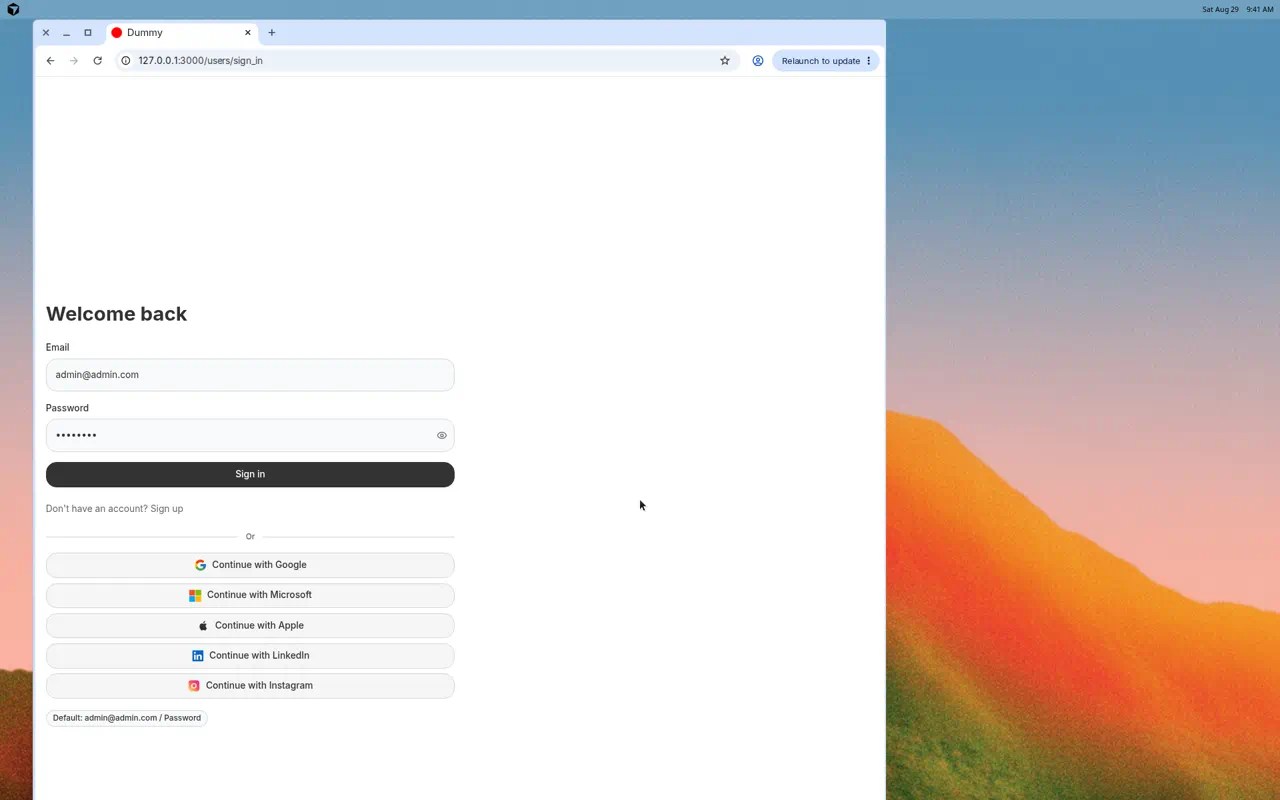
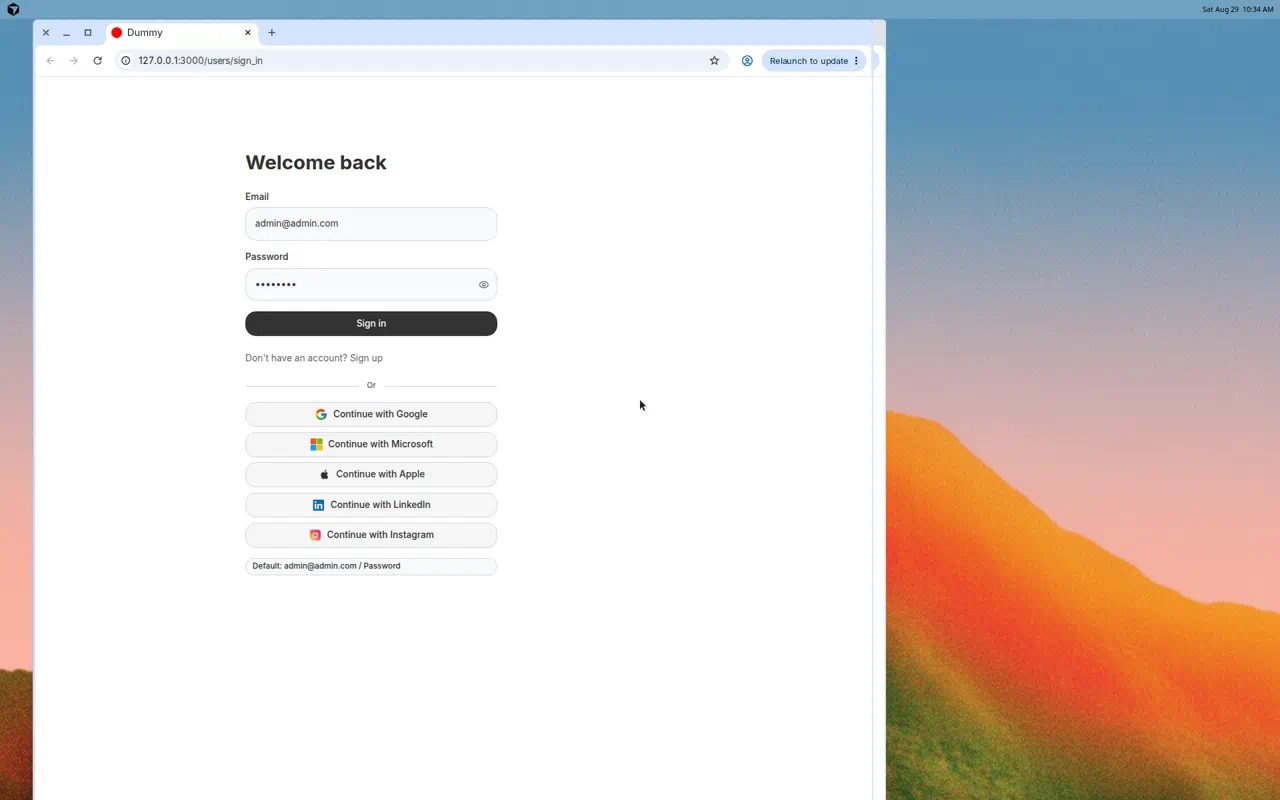
Compose login/signup with Flatpack Grid justify center max sm
Pin Flatpack branch cursor/grid-justify-max-8d62 (0.1.144) so Grid
justify:/max: work. Login and signup use cols:1 justify:center max:sm
only — drop cols:2, fixed inset-0, and layout mx-auto hacks. Recapture
review stills.

diff --git a/test/gem_template_test.rb b/test/gem_template_test.rb
@@ -140,20 +140,21 @@ class RecordingStudioUserTest < Minitest::Test
     assert_includes gemspec, '"recording_studio_attachable", "~> 0.5.0"'
   end
 
-  def test_gemfiles_pin_flatpack_divider_release
+  def test_gemfiles_pin_flatpack_grid_justify_max_branch
     [File.expand_path("../Gemfile", __dir__), File.expand_path("dummy/Gemfile", __dir__)].each do |gemfile|
-      assert_includes File.read(gemfile), 'gem "flat_pack", github: "bowerbird-app/flatpack", tag: "v0.1.142"'
+      assert_includes File.read(gemfile),
+                      'gem "flat_pack", github: "bowerbird-app/flatpack", branch: "cursor/grid-justify-max-8d62"'
     end
 
     [File.expand_path("../Gemfile.lock", __dir__), File.expand_path("dummy/Gemfile.lock", __dir__)].each do |lockfile|
       lock = File.read(lockfile)
-      assert_includes lock, "tag: v0.1.142"
-      assert_includes lock, "flat_pack (0.1.142)"
-      assert_includes lock, "942e7822245889242bc054990f74794c7f504438"
+      assert_includes lock, "branch: cursor/grid-justify-max-8d62"
+      assert_includes lock, "flat_pack (0.1.144)"
+      assert_includes lock, "8ae25818091f30db76b4b76fa11016b0d4a830e1"
     end
 
     gemspec = File.read(File.expand_path("../recording_studio_user.gemspec", __dir__))
-    assert_includes gemspec, '"flat_pack", "~> 0.1.142"'
+    assert_includes gemspec, '"flat_pack", "~> 0.1.144"'
   end
 
   def test_dummy_default_layout_head_sets_rounded_on_html

diff --git a/test/dummy/test/integration/login_page_test.rb b/test/dummy/test/integration/login_page_test.rb
@@ -14,7 +14,10 @@ class LoginPageTest < ActionDispatch::IntegrationTest
     assert_select "input[name='user[remember_me]']", count: 0
     assert_select "button[type='submit']", text: "Sign in"
     refute_includes response.body, "Remember me"
-    refute_includes response.body, "FlatPack::Card"
+    refute_includes response.body, "fixed inset-0"
+    refute_includes response.body, "place-content-center"
+    refute_includes response.body, "mx-auto my-28"
+    assert_includes response.body, "max-w-sm"
     assert_includes response.body, "Don't have an account?"
     assert_includes response.body, "Continue with Google"
     assert_match(/\bOr\b/, response.body)

diff --git a/test/dummy/README.md b/test/dummy/README.md
@@ -6,8 +6,8 @@ This Rails application demonstrates RecordingStudioUser in a host application.
 - This gem owns the shared **People** root and **Profile** snapshots (`user_id` on Profile).
 - One profile image is an Attachable child of the Profile recording. Dummy mounts Attachable and Active Storage.
 - Workspace remains the host-owned bucket. Access-controlled, read-only reporting on sitewide users is still mounted.
-- Signed-in pages use Recording Studio's default layout (`RecordingStudio::UsesDefaultLayout`). Devise keeps `layouts/application` with `html data-theme="rounded"`. Dummy does not own `recording_studio/default_layout`. A `recording_studio/_default_layout_head` hook sets the same theme on signed-in pages so Flatpack primary tokens resolve on `:root`. Login and sign up share the Flatpack auth stack with Grid `cols: 2` width cap (no Card): `login_title` (default Welcome back) / Sign up → fields → primary button → cross-link → Divider `Or` → full-width Continue-with buttons (provider logos via `icon:`). No Remember me on login. Login seed hint sits under the form. OmniAuth test mode mocks Google, Microsoft, Apple, LinkedIn, and Instagram. They are not a Users product registration flow.
-- Profile show/edit are PageNav chrome only. The right slot stays empty. There is no Access control, sidebar Sign out, or Root Switchable on those screens. Show puts Edit and Sign-in methods in the page title and one elevated identity Card (no `page_nav_back_*`; Flatpack PageNav may still paint history.back). A two-column Grid wraps the Card only (desktop width cap). Inside the card, Avatar sits above unlabeled name, email, and time zone in one column. Empty photos use profile-name initials (never the word “Avatar”). Edit hosts a `profile-photo` Turbo frame with Flatpack Avatar (`attachment_preview_url`, `size: :"2xl"`, name/alt from the profile) plus Attachable `render_attachment_file_button` for Add/Change — photo + name + timezone + Update/Cancel only. Connect / Disconnect live on `/recording_studio_users/profile/sign-in-methods` as matching Card + List rows with the configured provider logos. Dummy pins Flatpack `v0.1.142` (Divider + `:"2xl"` Avatar). An `mb-8` wrapper around the frame separates the photo row from First name. Edit puts the form in one cell of a two-column Flatpack Grid (the other cell stays empty) so fields do not stretch full-bleed on a wide screen. Each field is still its own full-width row. Update profile and Cancel are separate Flatpack buttons, not a ButtonGroup. Edit subtitle is the profile name (not `large_subtitle`).
+- Signed-in pages use Recording Studio's default layout (`RecordingStudio::UsesDefaultLayout`). Devise keeps `layouts/application` with `html data-theme="rounded"`. Dummy does not own `recording_studio/default_layout`. A `recording_studio/_default_layout_head` hook sets the same theme on signed-in pages so Flatpack primary tokens resolve on `:root`. Login and sign up compose one Flatpack Grid (`cols: 1`, `justify: :center`, `max: :sm`): `login_title` (default Welcome back) / Sign up → fields → primary button → cross-link → Divider `Or` → full-width Continue-with buttons (provider logos via `icon:`). No Card, no Remember me, no Users `fixed inset-0` / `mx-auto` centering. Login seed hint sits under the form. OmniAuth test mode mocks Google, Microsoft, Apple, LinkedIn, and Instagram. They are not a Users product registration flow.
+- Profile show/edit are PageNav chrome only. The right slot stays empty. There is no Access control, sidebar Sign out, or Root Switchable on those screens. Show puts Edit and Sign-in methods in the page title and one elevated identity Card (no `page_nav_back_*`; Flatpack PageNav may still paint history.back). A two-column Grid wraps the Card only (desktop width cap). Inside the card, Avatar sits above unlabeled name, email, and time zone in one column. Empty photos use profile-name initials (never the word “Avatar”). Edit hosts a `profile-photo` Turbo frame with Flatpack Avatar (`attachment_preview_url`, `size: :"2xl"`, name/alt from the profile) plus Attachable `render_attachment_file_button` for Add/Change — photo + name + timezone + Update/Cancel only. Connect / Disconnect live on `/recording_studio_users/profile/sign-in-methods` as matching Card + List rows with the configured provider logos. Dummy pins Flatpack branch `cursor/grid-justify-max-8d62` (`0.1.144`) for login/signup Grid `justify` / `max`. An `mb-8` wrapper around the frame separates the photo row from First name. Edit puts the form in one cell of a two-column Flatpack Grid (the other cell stays empty) so fields do not stretch full-bleed on a wide screen. Each field is still its own full-width row. Update profile and Cancel are separate Flatpack buttons, not a ButtonGroup. Edit subtitle is the profile name (not `large_subtitle`).
 - Review screenshots for Google OAuth live under `docs/review/google-oauth/`.
 - Dummy still overrides Attachable's leftover attachment show so that gem's in-view PageNav is not stacked on top of core's. Profile screens do not link there.
 
@@ -28,7 +28,7 @@ Run these commands from the dummy app directory. Sign in through Devise at `/use
 ## RecordingStudioUser Routes
 
 - `/recording_studio_users/profile`: the signed-in user's profile. Accessible must grant them a role on that Profile recording. Flash notices come from the default layout, not the show template. The photo is the single Attachable child. Show is an elevated identity Card plus **Edit** and **Sign-in methods** in the title (no Connect/Disconnect on show). Review stills for OAuth live under `docs/review/google-oauth/`.
-- `/recording_studio_users/profile/edit`: profile editing route. Writes go through `record_profile!`. The photo row is a host `profile-photo` Turbo frame: Avatar via `attachment_preview_url(..., variant: :square_med)` plus Attachable `render_attachment_file_button` (Add/Change posts stay on this page). Dummy pins Attachable tag `v0.5.0` and Flatpack `v0.1.142`. Empty photos use profile-name initials (never the word “Avatar”).
+- `/recording_studio_users/profile/edit`: profile editing route. Writes go through `record_profile!`. The photo row is a host `profile-photo` Turbo frame: Avatar via `attachment_preview_url(..., variant: :square_med)` plus Attachable `render_attachment_file_button` (Add/Change posts stay on this page). Dummy pins Attachable tag `v0.5.0` and Flatpack branch `cursor/grid-justify-max-8d62`. Empty photos use profile-name initials (never the word “Avatar”).
 - `/recording_studio_users/profile/sign-in-methods`: owner-only Sign-in methods (same Accessible grant as Edit). Flatpack elevated Card + List: linked providers show logo, name, email, Disconnect; when Google is configured but not linked, the same row shows logo, Google, and Connect (secondary, sm). Core PageNav back to My Profile.
 - `/recording_studio_attachable/attachments/:id`: leftover Attachable record screen if opened directly. Profile does not link here.
 - `/recording_studio_users/admin`: authorizes the actor against the Admin root, then opens the shared read-only users report.

diff --git a/README.md b/README.md
@@ -17,7 +17,7 @@ Add the engine to the host application's Gemfile:
 gem "recording_studio_user"
 ```
 
-`recording_studio` (~> 4.2), `recording_studio_accessible` (~> 0.7), `recording_studio_attachable` (~> 0.5.0), `recording_studio_admin`, `flat_pack` (~> 0.1.142), `devise`, `omniauth`, `omniauth-google-oauth2`, `omniauth-microsoft_graph`, `omniauth-apple`, `omniauth-linkedin-openid`, `omniauth-instagram-api`, and `omniauth-rails_csrf_protection` are runtime dependencies. This gem enables Accessible and Attachable on Profile only. It does not enable either on People.
+`recording_studio` (~> 4.2), `recording_studio_accessible` (~> 0.7), `recording_studio_attachable` (~> 0.5.0), `recording_studio_admin`, `flat_pack` (~> 0.1.144), `devise`, `omniauth`, `omniauth-google-oauth2`, `omniauth-microsoft_graph`, `omniauth-apple`, `omniauth-linkedin-openid`, `omniauth-instagram-api`, and `omniauth-rails_csrf_protection` are runtime dependencies. This gem enables Accessible and Attachable on Profile only. It does not enable either on People. Until Flatpack tags Grid `justify` / `max`, the dummy and development Gemfiles pin Flatpack branch `cursor/grid-justify-max-8d62` (PR #169).
 
 The host remains responsible for its existing User and Devise setup, Active Storage, and the Attachable mount. OmniAuth secrets stay in host credentials or ENV.
 
@@ -229,9 +229,9 @@ The host owns administration and must create its admin recordable/root, mount Re
 
 ## Dummy app
 
-The dummy keeps Devise login at `/users/sign_in` and sign up at `/users/sign_up`. Both use the same Flatpack auth stack with a Grid `cols: 2` width cap (no Card): `login_title` (default **Welcome back**) / **Sign up**, fields, primary Sign in / Sign up, cross-link, Flatpack Divider `Or`, then full-width **Continue with {Provider}** secondary buttons for every configured OmniAuth provider — not a Users product registration flow. Login does not show Remember me (Devise rememberable may stay on). Sign-up password confirmation stays host-configurable. The login seed hint sits under the form. OmniAuth runs in test mode with mocks for Google, Microsoft, Apple, LinkedIn, and Instagram so CI and screenshots do not need live apps. Signed-in pages use core `recording_studio/default_layout` via `RecordingStudio::UsesDefaultLayout` (PageNav back/close). Devise pages keep `layouts/application` with `html data-theme="rounded"`. Dummy does not copy or override core's default layout. Core puts `data-theme="rounded"` on `body`; Flatpack named-theme tokens resolve on `html` / `:root`, so dummy's `recording_studio/_default_layout_head` sets `document.documentElement.dataset.theme` to `rounded` so primary buttons inherit charcoal, not `:root` blue. Dummy pins Flatpack `v0.1.142` for Divider.
+The dummy keeps Devise login at `/users/sign_in` and sign up at `/users/sign_up`. Both use one Flatpack Grid column — `cols: 1`, `justify: :center`, `max: :sm` (no Card, no Users centering hacks): `login_title` (default **Welcome back**) / **Sign up**, fields, primary Sign in / Sign up, cross-link, Flatpack Divider `Or`, then full-width **Continue with {Provider}** secondary buttons for every configured OmniAuth provider — not a Users product registration flow. Login does not show Remember me (Devise rememberable may stay on). Sign-up password confirmation stays host-configurable. The login seed hint sits under the form. OmniAuth runs in test mode with mocks for Google, Microsoft, Apple, LinkedIn, and Instagram so CI and screenshots do not need live apps. Signed-in pages use core `recording_studio/default_layout` via `RecordingStudio::UsesDefaultLayout` (PageNav back/close). Devise pages keep `layouts/application` with `html data-theme="rounded"`. Dummy does not copy or override core's default layout. Core puts `data-theme="rounded"` on `body`; Flatpack named-theme tokens resolve on `html` / `:root`, so dummy's `recording_studio/_default_layout_head` sets `document.documentElement.dataset.theme` to `rounded` so primary buttons inherit charcoal, not `:root` blue. Dummy pins Flatpack branch `cursor/grid-justify-max-8d62` (0.1.144) for Grid `justify` / `max` until tagged.
 
-Profile show/edit are that chrome only — no sidebar, Sign out, Root Switchable, or Access slot. Show is Avatar plus Edit and Sign-in methods at `:xl`. Edit hosts a `profile-photo` Turbo frame at `:"2xl"` (Flatpack `v0.1.142`) with Attachable's file button for Add/Change. Connect / Disconnect live on `/recording_studio_users/profile/sign-in-methods`. Dummy still mounts Attachable and keeps a leftover attachment-show override (one core PageNav) if that URL is opened directly. Seeded accounts include:
+Profile show/edit are that chrome only — no sidebar, Sign out, Root Switchable, or Access slot. Show is Avatar plus Edit and Sign-in methods at `:xl`. Edit hosts a `profile-photo` Turbo frame at `:"2xl"` (Flatpack `0.1.144`) with Attachable's file button for Add/Change. Connect / Disconnect live on `/recording_studio_users/profile/sign-in-methods`. Dummy still mounts Attachable and keeps a leftover attachment-show override (one core PageNav) if that URL is opened directly. Seeded accounts include:
 
 | Email | Password |
 | --- | --- |

diff --git a/CHANGELOG.md b/CHANGELOG.md
@@ -23,10 +23,10 @@ and this project adheres to [Semantic Versioning](https://semver.org/spec/v2.0.0
 ### Changed
 - Host `devise_for` must route OmniAuth callbacks to Users: `controllers: { omniauth_callbacks: "recording_studio_user/omniauth_callbacks" }`. ProfiledUser adds `:omniauthable` when providers are present and sets `password_required?` false while an identity exists.
 - Migrations generator also copies the identities table.
-- Dummy Devise login and sign-up use the Flatpack auth stack without a Card: Grid `cols: 2` width cap → title → fields → primary button → cross-link → `Divider` (`label: "Or"`) → full-width secondary Continue-with buttons (provider logo via `icon:`). Login omits Remember me. Seed hint sits under the login form, not inside it. Requires Flatpack `~> 0.1.142` (Divider). Button `icon:` SVG logos use a small engine shim until Flatpack Button mirrors List::Item.
+- Dummy Devise login and sign-up use the Flatpack auth stack without a Card: `Grid` `cols: 1`, `justify: :center`, `max: :sm` → title → fields → primary button → cross-link → `Divider` (`label: "Or"`) → full-width secondary Continue-with buttons (provider logo via `icon:`). Login omits Remember me. Seed hint sits under the login form, not inside it. Dummy pins Flatpack branch `cursor/grid-justify-max-8d62` (gemspec `~> 0.1.144`) until that Grid API is tagged. Button `icon:` SVG logos use a small engine shim until Flatpack Button mirrors List::Item.
 
 ### Upgrade notes
-- Bump to `0.6.0`. Requires Flatpack `~> 0.1.142` (git tag `v0.1.142`).
+- Bump to `0.6.0`. Requires Flatpack `~> 0.1.144`. Until Flatpack Grid `justify` / `max` is on a tagged release, pin the Flatpack git branch `cursor/grid-justify-max-8d62` (see Flatpack PR #169). Do not invent a Flatpack tag.
 - Run `bin/rails generate recording_studio_user:migrations` and `bin/rails db:migrate` for `recording_studio_user_identities`.
 - Set `config.omniauth_providers` (per-provider `client_id` / `client_secret` from credentials or ENV; optional `logo` and strategy options such as Apple `team_id` / `key_id` / `pem`) and `config.omniauth_create_account` as needed. Point `devise_for :users` OmniAuth callbacks at `recording_studio_user/omniauth_callbacks`.
 - Optional `config.login_title` (default `"Welcome back"`) for the Devise login heading.
